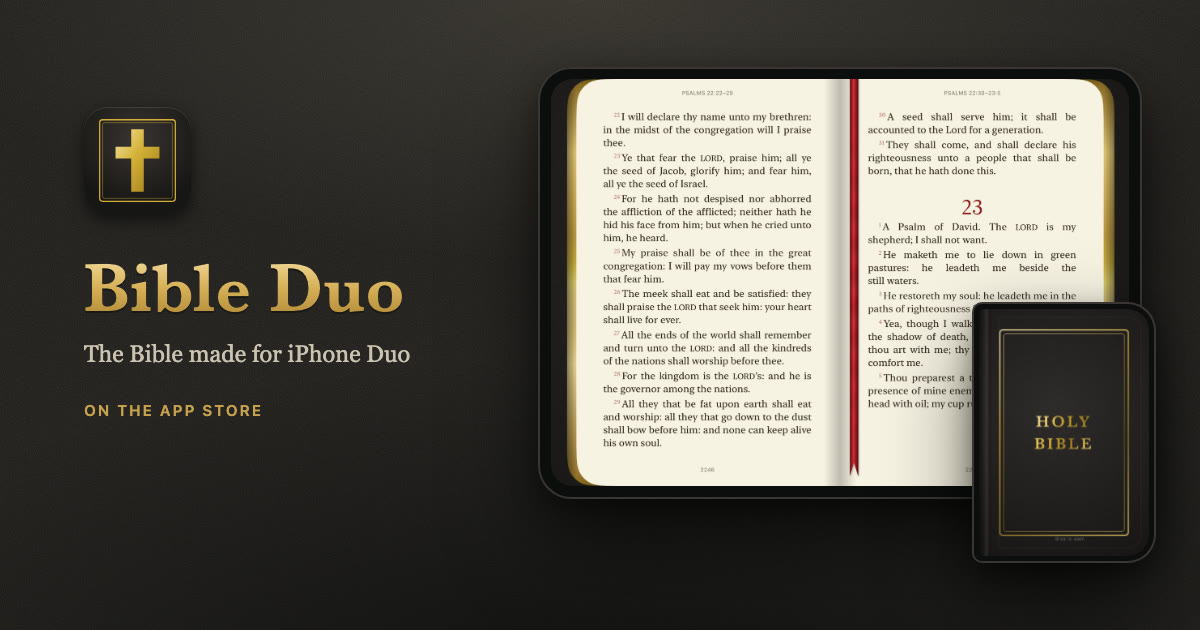
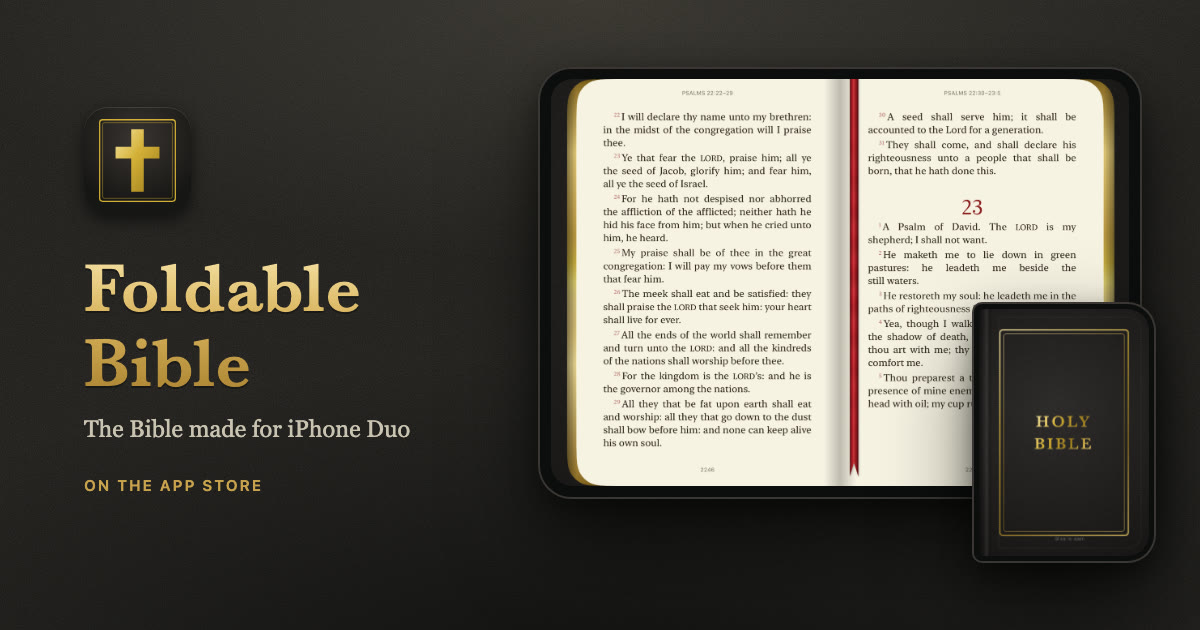
Rename to Foldable Bible / Bíblia Sagrada Fold / Santa Biblia Fold
App Review rejected the name Bible Duo under Guideline 5.2.5 (too close to
iPhone Duo). New store names in the titles, schema, support and privacy pages,
"the Duo" shorthand spelled out as iPhone Duo, and new link previews.

Changed region(s): [[0.0617, 0.4222, 0.3392, 0.6937], [0.0617, 0.754, 0.2158, 0.7841]]

diff --git a/es/index.html b/es/index.html
@@ -3,7 +3,7 @@
 <head>
 <meta charset="utf-8">
 <meta name="viewport" content="width=device-width, initial-scale=1">
-<title>Biblia Duo — la Santa Biblia como un libro, para iPhone Duo</title>
+<title>Santa Biblia Fold — la Santa Biblia como un libro, para iPhone Duo</title>
 <meta name="description" content="La Santa Biblia completa como un libro de verdad en el iPhone Duo: dos páginas, cantos dorados y hojas que pasas con el dedo. Reina-Valera 1909. Gratis, sin anuncios y sin internet.">
 <meta name="apple-itunes-app" content="app-id=6826902361">
 <link rel="canonical" href="https://oviniciusramosp.github.io/biblia-duo-site/es/">
@@ -12,7 +12,7 @@
 <link rel='alternate' hreflang='es' href='https://oviniciusramosp.github.io/biblia-duo-site/es/'>
 <link rel="alternate" hreflang="x-default" href="https://oviniciusramosp.github.io/biblia-duo-site/">
 <meta property="og:type" content="website">
-<meta property="og:title" content="Biblia Duo — la Santa Biblia como un libro, para iPhone Duo">
+<meta property="og:title" content="Santa Biblia Fold — la Santa Biblia como un libro, para iPhone Duo">
 <meta property="og:description" content="La Santa Biblia completa como un libro de verdad en el iPhone Duo: dos páginas, cantos dorados y hojas que pasas con el dedo. Reina-Valera 1909. Gratis, sin anuncios y sin internet.">
 <meta property="og:url" content="https://oviniciusramosp.github.io/biblia-duo-site/es/">
 <meta property="og:image" content="https://oviniciusramosp.github.io/biblia-duo-site/img/es/og.jpg">
@@ -20,14 +20,14 @@
 <meta name="twitter:card" content="summary_large_image">
 <link rel="icon" href="../img/cross.svg">
 <link rel="stylesheet" href="../style.css">
-<script type="application/ld+json">{"@context": "https://schema.org", "@type": "MobileApplication", "name": "Biblia Duo: Santa Escritura", "alternateName": "Biblia Duo", "description": "La Santa Biblia completa como un libro de verdad en el iPhone Duo: dos páginas, cantos dorados y hojas que pasas con el dedo. Reina-Valera 1909. Gratis, sin anuncios y sin internet.", "operatingSystem": "iOS 27.1", "applicationCategory": "ReferenceApplication", "inLanguage": ["en", "pt-BR", "es"], "url": "https://oviniciusramosp.github.io/biblia-duo-site/es/", "downloadUrl": "https://apps.apple.com/app/id6826902361", "image": "https://oviniciusramosp.github.io/biblia-duo-site/img/es/og.jpg", "screenshot": ["https://oviniciusramosp.github.io/biblia-duo-site/img/es/turn.webp", "https://oviniciusramosp.github.io/biblia-duo-site/img/es/highlights.webp", "https://oviniciusramosp.github.io/biblia-duo-site/img/es/books.webp", "https://oviniciusramosp.github.io/biblia-duo-site/img/es/cover.webp"], "offers": {"@type": "Offer", "price": "0", "priceCurrency": "USD"}, "author": {"@type": "Person", "name": "Vinicius Ramos"}}</script>
+<script type="application/ld+json">{"@context": "https://schema.org", "@type": "MobileApplication", "name": "Santa Biblia Fold", "alternateName": "Santa Biblia Fold", "description": "La Santa Biblia completa como un libro de verdad en el iPhone Duo: dos páginas, cantos dorados y hojas que pasas con el dedo. Reina-Valera 1909. Gratis, sin anuncios y sin internet.", "operatingSystem": "iOS 27.1", "applicationCategory": "ReferenceApplication", "inLanguage": ["en", "pt-BR", "es"], "url": "https://oviniciusramosp.github.io/biblia-duo-site/es/", "downloadUrl": "https://apps.apple.com/app/id6826902361", "image": "https://oviniciusramosp.github.io/biblia-duo-site/img/es/og.jpg", "screenshot": ["https://oviniciusramosp.github.io/biblia-duo-site/img/es/turn.webp", "https://oviniciusramosp.github.io/biblia-duo-site/img/es/highlights.webp", "https://oviniciusramosp.github.io/biblia-duo-site/img/es/books.webp", "https://oviniciusramosp.github.io/biblia-duo-site/img/es/cover.webp"], "offers": {"@type": "Offer", "price": "0", "priceCurrency": "USD"}, "author": {"@type": "Person", "name": "Vinicius Ramos"}}</script>
 </head>
 <body class="landing">
 <div class="wrap">
 <nav class="langs" aria-label="Idioma / Language / Idioma"><a href='../pt/' hreflang='pt'>Português</a><a href='.././' hreflang='en'>English</a><a href='../es/' hreflang='es' aria-current='page'>Español</a></nav>
 <header class="hero">
 <div class="app-icon"><img src="../img/frame.svg" alt=""><img src="../img/cross.svg" alt=""></div>
-<h1>Biblia Duo</h1>
+<h1>Santa Biblia Fold</h1>
 <p class="tagline">La Biblia como un libro de verdad, hecha para el iPhone Duo.</p>
 <a class='badge' href='https://apps.apple.com/app/id6826902361'><img src='https://toolbox.marketingtools.apple.com/api/v2/badges/download-on-the-app-store/black/es-mx' alt='Descargar en la App Store' width='200' height='67'></a>
 <p class="facts">Gratis · Sin anuncios · Funciona sin internet</p>
@@ -35,13 +35,13 @@
 </div>
 <img class="book" src="../img/es/book.webp" alt="La Biblia abierta en los Salmos, con cantos dorados y una cinta roja" width="1920" height="824">
 <main class="wrap">
-<section class='feature portrait'><div><h2>Cerrado, la cubierta. Abierto, el libro.</h2><p>Con el iPhone Duo cerrado, la pantalla exterior muestra la cubierta de piel de tu Biblia. Deslízala para abrirla y lee una página a la vez. Abre el Duo y la Biblia aparece abierta en dos páginas, como la que tienes junto a la cama.</p></div><figure><img src='../img/es/cover.webp' alt='La cubierta de piel de la Biblia en la pantalla exterior del iPhone Duo' width='700' height='1018' loading='lazy'></figure></section>
+<section class='feature portrait'><div><h2>Cerrado, la cubierta. Abierto, el libro.</h2><p>Con el iPhone Duo cerrado, la pantalla exterior muestra la cubierta de piel de tu Biblia. Deslízala para abrirla y lee una página a la vez. Abre el iPhone Duo y la Biblia aparece abierta en dos páginas, como la que tienes junto a la cama.</p></div><figure><img src='../img/es/cover.webp' alt='La cubierta de piel de la Biblia en la pantalla exterior del iPhone Duo' width='700' height='1018' loading='lazy'></figure></section>
 <section class='feature flip'><div><h2>Pasa la página con el dedo</h2><p>Las hojas se curvan bajo tu dedo, con la luz y la sombra del papel. Los cantos dorados muestran cuánto has leído, y una cinta de tela guarda tu lugar.</p></div><figure><img src='../img/es/turn.webp' alt='Una página curvándose al pasar, en la pantalla interior del iPhone Duo' width='1400' height='984' loading='lazy'></figure></section>
 <section class='feature'><div><h2>Resalta lo que te habla</h2><p>Toca y mantén una palabra para resaltar el versículo en uno de cuatro colores. Cada resaltado se convierte en una cita para releer y compartir.</p></div><figure><img src='../img/es/highlights.webp' alt='Juan 3:16 resaltado en amarillo en una página abierta' width='1400' height='984' loading='lazy'></figure></section>
 <section class='feature flip'><div><h2>Encuentra cualquier versículo</h2><p>Los 66 libros y todos los capítulos, con búsqueda. Escribe Juan 3:16 y ve directo al texto.</p></div><figure><img src='../img/es/books.webp' alt='La lista de libros buscando Juan 3:16' width='1400' height='984' loading='lazy'></figure></section>
 <section class="cards"><div><h3>A tu manera</h3><p>Cuatro estilos de cubierta, seis colores de piel, seis iconos, tema claro y oscuro y el tamaño de letra que mejor le quede a tus ojos.</p></div><div><h3>Sin internet y sin anuncios</h3><p>Funciona en el avión, en la iglesia y donde no hay señal. Sin anuncios ni distracciones.</p></div><div><h3>Tu lectura es solo tuya</h3><p>Sin cuenta y sin recopilar datos. Tus resaltados se quedan en tu iPhone.</p></div></section>
 <section class="translations"><h2>Tres traducciones completas</h2><ul><li>Español: Reina-Valera 1909</li><li>English: King James Version (KJV)</li><li>Português: Bíblia Livre, basada en la traducción Almeida</li></ul><p>Antiguo y Nuevo Testamento, los 66 libros. El idioma se cambia en Ajustes.</p></section>
-<section class="cta"><h2>Descarga Biblia Duo</h2><p>Gratis en la App Store. Hecha solo para el iPhone Duo, con iOS 27.1 o posterior.</p><a class='badge' href='https://apps.apple.com/app/id6826902361'><img src='https://toolbox.marketingtools.apple.com/api/v2/badges/download-on-the-app-store/black/es-mx' alt='Descargar en la App Store' width='200' height='67'></a></section>
+<section class="cta"><h2>Descarga Santa Biblia Fold</h2><p>Gratis en la App Store. Hecha solo para el iPhone Duo, con iOS 27.1 o posterior.</p><a class='badge' href='https://apps.apple.com/app/id6826902361'><img src='https://toolbox.marketingtools.apple.com/api/v2/badges/download-on-the-app-store/black/es-mx' alt='Descargar en la App Store' width='200' height='67'></a></section>
 </main>
 <footer class="wrap site">
 <p><a href="../support.html?lang=es">Soporte</a> · <a href="../privacy.html?lang=es">Política de privacidad</a> · <a href='../pt/' hreflang='pt'>Português</a> · <a href='.././' hreflang='en'>English</a> · <a href='../es/' hreflang='es'>Español</a></p>

diff --git a/pt/index.html b/pt/index.html
@@ -3,7 +3,7 @@
 <head>
 <meta charset="utf-8">
 <meta name="viewport" content="width=device-width, initial-scale=1">
-<title>Bíblia Duo — a Bíblia Sagrada como um livro, para iPhone Duo</title>
+<title>Bíblia Sagrada Fold — a Bíblia Sagrada como um livro, para iPhone Duo</title>
 <meta name="description" content="A Bíblia Sagrada completa como um livro de verdade no iPhone Duo: duas páginas, bordas douradas e folhas que viram com o dedo. Grátis, sem anúncios e sem internet.">
 <meta name="apple-itunes-app" content="app-id=6826902361">
 <link rel="canonical" href="https://oviniciusramosp.github.io/biblia-duo-site/pt/">
@@ -12,7 +12,7 @@
 <link rel='alternate' hreflang='es' href='https://oviniciusramosp.github.io/biblia-duo-site/es/'>
 <link rel="alternate" hreflang="x-default" href="https://oviniciusramosp.github.io/biblia-duo-site/">
 <meta property="og:type" content="website">
-<meta property="og:title" content="Bíblia Duo — a Bíblia Sagrada como um livro, para iPhone Duo">
+<meta property="og:title" content="Bíblia Sagrada Fold — a Bíblia Sagrada como um livro, para iPhone Duo">
 <meta property="og:description" content="A Bíblia Sagrada completa como um livro de verdade no iPhone Duo: duas páginas, bordas douradas e folhas que viram com o dedo. Grátis, sem anúncios e sem internet.">
 <meta property="og:url" content="https://oviniciusramosp.github.io/biblia-duo-site/pt/">
 <meta property="og:image" content="https://oviniciusramosp.github.io/biblia-duo-site/img/pt/og.jpg">
@@ -20,14 +20,14 @@
 <meta name="twitter:card" content="summary_large_image">
 <link rel="icon" href="../img/cross.svg">
 <link rel="stylesheet" href="../style.css">
-<script type="application/ld+json">{"@context": "https://schema.org", "@type": "MobileApplication", "name": "Bíblia Duo: Sagrada Escritura", "alternateName": "Bíblia Duo", "description": "A Bíblia Sagrada completa como um livro de verdade no iPhone Duo: duas páginas, bordas douradas e folhas que viram com o dedo. Grátis, sem anúncios e sem internet.", "operatingSystem": "iOS 27.1", "applicationCategory": "ReferenceApplication", "inLanguage": ["en", "pt-BR", "es"], "url": "https://oviniciusramosp.github.io/biblia-duo-site/pt/", "downloadUrl": "https://apps.apple.com/app/id6826902361", "image": "https://oviniciusramosp.github.io/biblia-duo-site/img/pt/og.jpg", "screenshot": ["https://oviniciusramosp.github.io/biblia-duo-site/img/pt/turn.webp", "https://oviniciusramosp.github.io/biblia-duo-site/img/pt/highlights.webp", "https://oviniciusramosp.github.io/biblia-duo-site/img/pt/books.webp", "https://oviniciusramosp.github.io/biblia-duo-site/img/pt/cover.webp"], "offers": {"@type": "Offer", "price": "0", "priceCurrency": "BRL"}, "author": {"@type": "Person", "name": "Vinicius Ramos"}}</script>
+<script type="application/ld+json">{"@context": "https://schema.org", "@type": "MobileApplication", "name": "Bíblia Sagrada Fold", "alternateName": "Bíblia Sagrada Fold", "description": "A Bíblia Sagrada completa como um livro de verdade no iPhone Duo: duas páginas, bordas douradas e folhas que viram com o dedo. Grátis, sem anúncios e sem internet.", "operatingSystem": "iOS 27.1", "applicationCategory": "ReferenceApplication", "inLanguage": ["en", "pt-BR", "es"], "url": "https://oviniciusramosp.github.io/biblia-duo-site/pt/", "downloadUrl": "https://apps.apple.com/app/id6826902361", "image": "https://oviniciusramosp.github.io/biblia-duo-site/img/pt/og.jpg", "screenshot": ["https://oviniciusramosp.github.io/biblia-duo-site/img/pt/turn.webp", "https://oviniciusramosp.github.io/biblia-duo-site/img/pt/highlights.webp", "https://oviniciusramosp.github.io/biblia-duo-site/img/pt/books.webp", "https://oviniciusramosp.github.io/biblia-duo-site/img/pt/cover.webp"], "offers": {"@type": "Offer", "price": "0", "priceCurrency": "BRL"}, "author": {"@type": "Person", "name": "Vinicius Ramos"}}</script>
 </head>
 <body class="landing">
 <div class="wrap">
 <nav class="langs" aria-label="Idioma / Language / Idioma"><a href='../pt/' hreflang='pt' aria-current='page'>Português</a><a href='.././' hreflang='en'>English</a><a href='../es/' hreflang='es'>Español</a></nav>
 <header class="hero">
 <div class="app-icon"><img src="../img/frame.svg" alt=""><img src="../img/cross.svg" alt=""></div>
-<h1>Bíblia Duo</h1>
+<h1>Bíblia Sagrada Fold</h1>
 <p class="tagline">A Bíblia como um livro de verdade, feita para o iPhone Duo.</p>
 <a class='badge' href='https://apps.apple.com/app/id6826902361'><img src='https://toolbox.marketingtools.apple.com/api/v2/badges/download-on-the-app-store/black/pt-br' alt='Baixar na App Store' width='200' height='67'></a>
 <p class="facts">Grátis · Sem anúncios · Funciona sem internet</p>
@@ -35,13 +35,13 @@
 </div>
 <img class="book" src="../img/pt/book.webp" alt="A Bíblia aberta nos Salmos, com bordas douradas e fitinha vermelha" width="1920" height="824">
 <main class="wrap">
-<section class='feature portrait'><div><h2>Fechado, a capa. Aberto, o livro.</h2><p>Com o iPhone Duo fechado, a tela de fora mostra a capa de couro da sua Bíblia. Deslize para abrir e leia uma página de cada vez. Abra o Duo e a Bíblia aparece aberta em duas páginas, como aquela que fica na cabeceira.</p></div><figure><img src='../img/pt/cover.webp' alt='A capa de couro da Bíblia na tela externa do iPhone Duo' width='700' height='1018' loading='lazy'></figure></section>
+<section class='feature portrait'><div><h2>Fechado, a capa. Aberto, o livro.</h2><p>Com o iPhone Duo fechado, a tela de fora mostra a capa de couro da sua Bíblia. Deslize para abrir e leia uma página de cada vez. Abra o iPhone Duo e a Bíblia aparece aberta em duas páginas, como aquela que fica na cabeceira.</p></div><figure><img src='../img/pt/cover.webp' alt='A capa de couro da Bíblia na tela externa do iPhone Duo' width='700' height='1018' loading='lazy'></figure></section>
 <section class='feature flip'><div><h2>Vire a página com o dedo</h2><p>As folhas se curvam sob o dedo, com a luz e a sombra do papel. As bordas douradas mostram quanto você já leu, e uma fitinha de tecido guarda a página onde parou.</p></div><figure><img src='../img/pt/turn.webp' alt='Uma página se curvando ao virar, na tela interna do iPhone Duo' width='1400' height='984' loading='lazy'></figure></section>
 <section class='feature'><div><h2>Destaque o que fala com você</h2><p>Toque e segure uma palavra para destacar o versículo em uma de quatro cores. Cada destaque vira uma citação para reler e compartilhar.</p></div><figure><img src='../img/pt/highlights.webp' alt='João 3:16 destacado em amarelo numa página aberta' width='1400' height='984' loading='lazy'></figure></section>
 <section class='feature flip'><div><h2>Ache qualquer versículo</h2><p>Os 66 livros e todos os capítulos, com busca. Digite João 3:16 e vá direto ao texto.</p></div><figure><img src='../img/pt/books.webp' alt='A lista de livros buscando João 3:16' width='1400' height='984' loading='lazy'></figure></section>
 <section class="cards"><div><h3>Do seu jeito</h3><p>Quatro estilos de capa, seis cores de couro, seis ícones, tema claro e escuro e o tamanho de letra melhor para os seus olhos.</p></div><div><h3>Sem internet e sem anúncios</h3><p>Funciona no avião, na igreja e onde não há sinal. Sem anúncios e sem distrações.</p></div><div><h3>Sua leitura é só sua</h3><p>Não pedimos conta e não coletamos dados. Seus destaques ficam no seu iPhone.</p></div></section>
 <section class="translations"><h2>Três traduções completas</h2><ul><li>Português: Bíblia Livre, tradução baseada na Almeida</li><li>English: King James Version (KJV)</li><li>Español: Reina-Valera 1909</li></ul><p>Antigo e Novo Testamento, os 66 livros. O idioma muda nos Ajustes.</p></section>
-<section class="cta"><h2>Baixe a Bíblia Duo</h2><p>Grátis na App Store. Feita só para o iPhone Duo, com iOS 27.1 ou posterior.</p><a class='badge' href='https://apps.apple.com/app/id6826902361'><img src='https://toolbox.marketingtools.apple.com/api/v2/badges/download-on-the-app-store/black/pt-br' alt='Baixar na App Store' width='200' height='67'></a></section>
+<section class="cta"><h2>Baixe a Bíblia Sagrada Fold</h2><p>Grátis na App Store. Feita só para o iPhone Duo, com iOS 27.1 ou posterior.</p><a class='badge' href='https://apps.apple.com/app/id6826902361'><img src='https://toolbox.marketingtools.apple.com/api/v2/badges/download-on-the-app-store/black/pt-br' alt='Baixar na App Store' width='200' height='67'></a></section>
 </main>
 <footer class="wrap site">
 <p><a href="../support.html?lang=pt">Suporte</a> · <a href="../privacy.html?lang=pt">Política de privacidade</a> · <a href='../pt/' hreflang='pt'>Português</a> · <a href='.././' hreflang='en'>English</a> · <a href='../es/' hreflang='es'>Español</a></p>

diff --git a/index.html b/index.html
@@ -3,7 +3,7 @@
 <head>
 <meta charset="utf-8">
 <meta name="viewport" content="width=device-width, initial-scale=1">
-<title>Bible Duo — the Holy Bible as a real book, for iPhone Duo</title>
+<title>Foldable Bible — the Holy Bible as a real book, for iPhone Duo</title>
 <meta name="description" content="The complete Holy Bible as a real book on iPhone Duo: two pages, gilded edges and pages you turn by hand. King James Version. Free, no ads, works offline.">
 <meta name="apple-itunes-app" content="app-id=6826902361">
 <link rel="canonical" href="https://oviniciusramosp.github.io/biblia-duo-site/">
@@ -12,7 +12,7 @@
 <link rel='alternate' hreflang='es' href='https://oviniciusramosp.github.io/biblia-duo-site/es/'>
 <link rel="alternate" hreflang="x-default" href="https://oviniciusramosp.github.io/biblia-duo-site/">
 <meta property="og:type" content="website">
-<meta property="og:title" content="Bible Duo — the Holy Bible as a real book, for iPhone Duo">
+<meta property="og:title" content="Foldable Bible — the Holy Bible as a real book, for iPhone Duo">
 <meta property="og:description" content="The complete Holy Bible as a real book on iPhone Duo: two pages, gilded edges and pages you turn by hand. King James Version. Free, no ads, works offline.">
 <meta property="og:url" content="https://oviniciusramosp.github.io/biblia-duo-site/">
 <meta property="og:image" content="https://oviniciusramosp.github.io/biblia-duo-site/img/en/og.jpg">
@@ -20,14 +20,14 @@
 <meta name="twitter:card" content="summary_large_image">
 <link rel="icon" href="img/cross.svg">
 <link rel="stylesheet" href="style.css">
-<script type="application/ld+json">{"@context": "https://schema.org", "@type": "MobileApplication", "name": "Bible Duo: Holy Scripture", "alternateName": "Bible Duo", "description": "The complete Holy Bible as a real book on iPhone Duo: two pages, gilded edges and pages you turn by hand. King James Version. Free, no ads, works offline.", "operatingSystem": "iOS 27.1", "applicationCategory": "ReferenceApplication", "inLanguage": ["en", "pt-BR", "es"], "url": "https://oviniciusramosp.github.io/biblia-duo-site/", "downloadUrl": "https://apps.apple.com/app/id6826902361", "image": "https://oviniciusramosp.github.io/biblia-duo-site/img/en/og.jpg", "screenshot": ["https://oviniciusramosp.github.io/biblia-duo-site/img/en/turn.webp", "https://oviniciusramosp.github.io/biblia-duo-site/img/en/highlights.webp", "https://oviniciusramosp.github.io/biblia-duo-site/img/en/books.webp", "https://oviniciusramosp.github.io/biblia-duo-site/img/en/cover.webp"], "offers": {"@type": "Offer", "price": "0", "priceCurrency": "USD"}, "author": {"@type": "Person", "name": "Vinicius Ramos"}}</script>
+<script type="application/ld+json">{"@context": "https://schema.org", "@type": "MobileApplication", "name": "Foldable Bible: Holy Scripture", "alternateName": "Foldable Bible", "description": "The complete Holy Bible as a real book on iPhone Duo: two pages, gilded edges and pages you turn by hand. King James Version. Free, no ads, works offline.", "operatingSystem": "iOS 27.1", "applicationCategory": "ReferenceApplication", "inLanguage": ["en", "pt-BR", "es"], "url": "https://oviniciusramosp.github.io/biblia-duo-site/", "downloadUrl": "https://apps.apple.com/app/id6826902361", "image": "https://oviniciusramosp.github.io/biblia-duo-site/img/en/og.jpg", "screenshot": ["https://oviniciusramosp.github.io/biblia-duo-site/img/en/turn.webp", "https://oviniciusramosp.github.io/biblia-duo-site/img/en/highlights.webp", "https://oviniciusramosp.github.io/biblia-duo-site/img/en/books.webp", "https://oviniciusramosp.github.io/biblia-duo-site/img/en/cover.webp"], "offers": {"@type": "Offer", "price": "0", "priceCurrency": "USD"}, "author": {"@type": "Person", "name": "Vinicius Ramos"}}</script>
 </head>
 <body class="landing">
 <div class="wrap">
 <nav class="langs" aria-label="Idioma / Language / Idioma"><a href='pt/' hreflang='pt'>Português</a><a href='./' hreflang='en' aria-current='page'>English</a><a href='es/' hreflang='es'>Español</a></nav>
 <header class="hero">
 <div class="app-icon"><img src="img/frame.svg" alt=""><img src="img/cross.svg" alt=""></div>
-<h1>Bible Duo</h1>
+<h1>Foldable Bible</h1>
 <p class="tagline">The Bible like a real book, made for iPhone Duo.</p>
 <a class='badge' href='https://apps.apple.com/app/id6826902361'><img src='https://toolbox.marketingtools.apple.com/api/v2/badges/download-on-the-app-store/black/en-us' alt='Download on the App Store' width='200' height='67'></a>
 <p class="facts">Free · No ads · Works offline</p>
@@ -35,13 +35,13 @@
 </div>
 <img class="book" src="img/en/book.webp" alt="The Bible open to Psalm 23, with gilded edges and a red ribbon" width="1920" height="824">
 <main class="wrap">
-<section class='feature portrait'><div><h2>Closed, the cover. Open, the book.</h2><p>With iPhone Duo closed, the outer display shows your Bible&#x27;s leather cover. Swipe it open and read one page at a time. Unfold your Duo and the Bible lies open on two pages, like the one on your nightstand.</p></div><figure><img src='img/en/cover.webp' alt='The Bible&#x27;s leather cover on the iPhone Duo outer display' width='700' height='1018' loading='lazy'></figure></section>
+<section class='feature portrait'><div><h2>Closed, the cover. Open, the book.</h2><p>With iPhone Duo closed, the outer display shows your Bible&#x27;s leather cover. Swipe it open and read one page at a time. Unfold your iPhone Duo and the Bible lies open on two pages, like the one on your nightstand.</p></div><figure><img src='img/en/cover.webp' alt='The Bible&#x27;s leather cover on the iPhone Duo outer display' width='700' height='1018' loading='lazy'></figure></section>
 <section class='feature flip'><div><h2>Turn pages by hand</h2><p>Pages curl under your finger, with the light and shadow of paper. The gilded edges show how far you&#x27;ve read, and a cloth ribbon keeps your place.</p></div><figure><img src='img/en/turn.webp' alt='A page curling as it turns, on the iPhone Duo inner display' width='1400' height='984' loading='lazy'></figure></section>
 <section class='feature'><div><h2>Highlight what speaks to you</h2><p>Touch and hold a word to highlight the verse in one of four colors. Every highlight becomes a quote to revisit and share.</p></div><figure><img src='img/en/highlights.webp' alt='John 3:16 highlighted in yellow on an open page' width='1400' height='984' loading='lazy'></figure></section>
 <section class='feature flip'><div><h2>Find any verse</h2><p>All 66 books and every chapter, with search. Type John 3:16 and go straight to the text.</p></div><figure><img src='img/en/books.webp' alt='The books list searching for John 3:16' width='1400' height='984' loading='lazy'></figure></section>
 <section class="cards"><div><h3>Make it yours</h3><p>Four cover styles, six leather colors, six app icons, light and dark themes, and the text size that suits your eyes.</p></div><div><h3>No internet, no ads</h3><p>Works on a plane, at church, anywhere without signal. No ads, no distractions.</p></div><div><h3>Your reading stays yours</h3><p>No account and no data collected. Your highlights stay on your iPhone.</p></div></section>
 <section class="translations"><h2>Three complete translations</h2><ul><li>English: King James Version (KJV)</li><li>Português: Bíblia Livre, based on the Almeida translation</li><li>Español: Reina-Valera 1909</li></ul><p>Old and New Testament, all 66 books. Switch the language in Settings.</p></section>
-<section class="cta"><h2>Get Bible Duo</h2><p>Free on the App Store. Made only for iPhone Duo, with iOS 27.1 or later.</p><a class='badge' href='https://apps.apple.com/app/id6826902361'><img src='https://toolbox.marketingtools.apple.com/api/v2/badges/download-on-the-app-store/black/en-us' alt='Download on the App Store' width='200' height='67'></a></section>
+<section class="cta"><h2>Get Foldable Bible</h2><p>Free on the App Store. Made only for iPhone Duo, with iOS 27.1 or later.</p><a class='badge' href='https://apps.apple.com/app/id6826902361'><img src='https://toolbox.marketingtools.apple.com/api/v2/badges/download-on-the-app-store/black/en-us' alt='Download on the App Store' width='200' height='67'></a></section>
 </main>
 <footer class="wrap site">
 <p><a href="support.html?lang=en">Support</a> · <a href="privacy.html?lang=en">Privacy policy</a> · <a href='pt/' hreflang='pt'>Português</a> · <a href='./' hreflang='en'>English</a> · <a href='es/' hreflang='es'>Español</a></p>

diff --git a/privacy.html b/privacy.html
@@ -3,7 +3,7 @@
 <head>
 <meta charset="utf-8">
 <meta name="viewport" content="width=device-width, initial-scale=1">
-<title>Bíblia Duo — Privacidade</title>
+<title>Bíblia Sagrada Fold — Privacidade</title>
 <link rel="stylesheet" href="style.css">
 </head>
 <body>
@@ -16,8 +16,8 @@
 
   <article lang="pt-BR" data-lang="pt">
     <h1>Política de Privacidade</h1>
-    <p class="meta"><a href="pt/">Bíblia Duo</a> · em vigor desde 23 de outubro de 2026</p>
-    <p>A Bíblia Duo não coleta, não envia e não compartilha nenhum dado seu.</p>
+    <p class="meta"><a href="pt/">Bíblia Sagrada Fold</a> · em vigor desde 23 de outubro de 2026</p>
+    <p>A Bíblia Sagrada Fold não coleta, não envia e não compartilha nenhum dado seu.</p>
     <h2>O que fica no seu aparelho</h2>
     <p>A página marcada com a fitinha, os trechos que você destaca, as citações e as suas preferências (capa, tema, idioma e tamanho da letra) são guardados apenas no seu iPhone, dentro do próprio app. Eles entram no backup do iPhone como qualquer outro dado de app e são apagados quando você apaga o app.</p>
     <h2>O que não fazemos</h2>
@@ -36,8 +36,8 @@
 
   <article lang="en-US" data-lang="en">
     <h1>Privacy Policy</h1>
-    <p class="meta"><a href="./">Bible Duo</a> · effective October 23, 2026</p>
-    <p>Bible Duo does not collect, send or share any of your data.</p>
+    <p class="meta"><a href="./">Foldable Bible</a> · effective October 23, 2026</p>
+    <p>Foldable Bible does not collect, send or share any of your data.</p>
     <h2>What stays on your device</h2>
     <p>Your ribbon bookmark, highlighted passages, quotes and preferences (cover, theme, language and text size) are stored only on your iPhone, inside the app. They are included in your iPhone backup like any other app data and are deleted when you delete the app.</p>
     <h2>What we don't do</h2>
@@ -56,8 +56,8 @@
 
   <article lang="es-MX" data-lang="es">
     <h1>Política de Privacidad</h1>
-    <p class="meta"><a href="es/">Biblia Duo</a> · vigente desde el 23 de octubre de 2026</p>
-    <p>Biblia Duo no recopila, no envía y no comparte ningún dato tuyo.</p>
+    <p class="meta"><a href="es/">Santa Biblia Fold</a> · vigente desde el 23 de octubre de 2026</p>
+    <p>Santa Biblia Fold no recopila, no envía y no comparte ningún dato tuyo.</p>
     <h2>Lo que se queda en tu dispositivo</h2>
     <p>La página marcada con la cinta, los pasajes resaltados, las citas y tus preferencias (cubierta, tema, idioma y tamaño de letra) se guardan solo en tu iPhone, dentro de la app. Se incluyen en el respaldo del iPhone como cualquier otro dato de app y se borran cuando eliminas la app.</p>
     <h2>Lo que no hacemos</h2>

diff --git a/support.html b/support.html
@@ -3,7 +3,7 @@
 <head>
 <meta charset="utf-8">
 <meta name="viewport" content="width=device-width, initial-scale=1">
-<title>Bíblia Duo — Suporte</title>
+<title>Bíblia Sagrada Fold — Suporte</title>
 <link rel="stylesheet" href="style.css">
 </head>
 <body>
@@ -16,10 +16,10 @@
 
   <article lang="pt-BR" data-lang="pt">
     <h1>Suporte</h1>
-    <p class="meta"><a href="pt/">Bíblia Duo</a> para iPhone Duo</p>
+    <p class="meta"><a href="pt/">Bíblia Sagrada Fold</a> para iPhone Duo</p>
     <h2>Perguntas frequentes</h2>
     <h3>Como abro a Bíblia?</h3>
-    <p>Com o Duo fechado, deslize a capa da direita para a esquerda. Ou abra o Duo: a Bíblia aparece aberta em duas páginas.</p>
+    <p>Com o iPhone Duo fechado, deslize a capa da direita para a esquerda. Ou abra o iPhone Duo: a Bíblia aparece aberta em duas páginas.</p>
     <h3>Como viro as páginas?</h3>
     <p>Arraste a página com o dedo, como num livro. Solte depois da lombada para virar, ou antes dela para desistir.</p>
     <h3>Como marco uma página?</h3>
@@ -39,10 +39,10 @@
 
   <article lang="en-US" data-lang="en">
     <h1>Support</h1>
-    <p class="meta"><a href="./">Bible Duo</a> for iPhone Duo</p>
+    <p class="meta"><a href="./">Foldable Bible</a> for iPhone Duo</p>
     <h2>Frequently asked questions</h2>
     <h3>How do I open the Bible?</h3>
-    <p>With Duo closed, swipe the cover from right to left. Or open your Duo: the Bible appears open to a two-page spread.</p>
+    <p>With iPhone Duo closed, swipe the cover from right to left. Or open your iPhone Duo: the Bible appears open to a two-page spread.</p>
     <h3>How do I turn pages?</h3>
     <p>Drag the page with your finger, like a book. Let go past the spine to turn it, or before it to change your mind.</p>
     <h3>How do I mark a page?</h3>
@@ -62,10 +62,10 @@
 
   <article lang="es-MX" data-lang="es">
     <h1>Soporte</h1>
-    <p class="meta"><a href="es/">Biblia Duo</a> para iPhone Duo</p>
+    <p class="meta"><a href="es/">Santa Biblia Fold</a> para iPhone Duo</p>
     <h2>Preguntas frecuentes</h2>
     <h3>¿Cómo abro la Biblia?</h3>
-    <p>Con el Duo cerrado, desliza la cubierta de derecha a izquierda. O abre tu Duo: la Biblia aparece abierta en dos páginas.</p>
+    <p>Con el iPhone Duo cerrado, desliza la cubierta de derecha a izquierda. O abre tu iPhone Duo: la Biblia aparece abierta en dos páginas.</p>
     <h3>¿Cómo paso las páginas?</h3>
     <p>Arrastra la página con el dedo, como en un libro. Suéltala después del lomo para pasarla, o antes para arrepentirte.</p>
     <h3>¿Cómo marco una página?</h3>

diff --git a/build.py b/build.py
@@ -14,8 +14,8 @@ HERE = os.path.dirname(os.path.abspath(__file__))
 # path: where the page lives; badge: Apple's badge locale; lang: the images and the support/privacy ?lang=
 PAGES = {
     "en": dict(path="", html_lang="en", og_locale="en_US", badge="en-us", currency="USD",
-               name="Bible Duo: Holy Scripture", short="Bible Duo",
-               title="Bible Duo — the Holy Bible as a real book, for iPhone Duo",
+               name="Foldable Bible: Holy Scripture", short="Foldable Bible",
+               title="Foldable Bible — the Holy Bible as a real book, for iPhone Duo",
                description="The complete Holy Bible as a real book on iPhone Duo: two pages, gilded edges and pages you turn "
                            "by hand. King James Version. Free, no ads, works offline.",
                tagline="The Bible like a real book, made for iPhone Duo.",
@@ -25,7 +25,7 @@ PAGES = {
                sections=[
                    ("Closed, the cover. Open, the book.",
                     "With iPhone Duo closed, the outer display shows your Bible's leather cover. Swipe it open and read one "
-                    "page at a time. Unfold your Duo and the Bible lies open on two pages, like the one on your nightstand.",
+                    "page at a time. Unfold your iPhone Duo and the Bible lies open on two pages, like the one on your nightstand.",
                     "cover", "The Bible's leather cover on the iPhone Duo outer display"),
                    ("Turn pages by hand",
                     "Pages curl under your finger, with the light and shadow of paper. The gilded edges show how far you've "
@@ -50,14 +50,14 @@ PAGES = {
                translations=["English: King James Version (KJV)", "Português: Bíblia Livre, based on the Almeida translation",
                              "Español: Reina-Valera 1909"],
                translations_note="Old and New Testament, all 66 books. Switch the language in Settings.",
-               cta_title="Get Bible Duo",
+               cta_title="Get Foldable Bible",
                cta="Free on the App Store. Made only for iPhone Duo, with iOS 27.1 or later.",
                credits="Bible texts: King James Version and Reina-Valera 1909 (public domain); Bíblia Livre © 2018 Diego "
                        "Santos, Mario Sérgio and Marco Teles (CC BY 4.0). Texts via eBible.org.",
                legal="Apple, the Apple logo and iPhone are trademarks of Apple Inc. App Store is a service mark of Apple Inc."),
     "pt": dict(path="pt/", html_lang="pt-BR", og_locale="pt_BR", badge="pt-br", currency="BRL",
-               name="Bíblia Duo: Sagrada Escritura", short="Bíblia Duo",
-               title="Bíblia Duo — a Bíblia Sagrada como um livro, para iPhone Duo",
+               name="Bíblia Sagrada Fold", short="Bíblia Sagrada Fold",
+               title="Bíblia Sagrada Fold — a Bíblia Sagrada como um livro, para iPhone Duo",
                description="A Bíblia Sagrada completa como um livro de verdade no iPhone Duo: duas páginas, bordas douradas e "
                            "folhas que viram com o dedo. Grátis, sem anúncios e sem internet.",
                tagline="A Bíblia como um livro de verdade, feita para o iPhone Duo.",
@@ -67,7 +67,7 @@ PAGES = {
                sections=[
                    ("Fechado, a capa. Aberto, o livro.",
                     "Com o iPhone Duo fechado, a tela de fora mostra a capa de couro da sua Bíblia. Deslize para abrir e leia "
-                    "uma página de cada vez. Abra o Duo e a Bíblia aparece aberta em duas páginas, como aquela que fica na "
+                    "uma página de cada vez. Abra o iPhone Duo e a Bíblia aparece aberta em duas páginas, como aquela que fica na "
                     "cabeceira.",
                     "cover", "A capa de couro da Bíblia na tela externa do iPhone Duo"),
                    ("Vire a página com o dedo",
@@ -94,15 +94,15 @@ PAGES = {
                translations=["Português: Bíblia Livre, tradução baseada na Almeida", "English: King James Version (KJV)",
                              "Español: Reina-Valera 1909"],
                translations_note="Antigo e Novo Testamento, os 66 livros. O idioma muda nos Ajustes.",
-               cta_title="Baixe a Bíblia Duo",
+               cta_title="Baixe a Bíblia Sagrada Fold",
                cta="Grátis na App Store. Feita só para o iPhone Duo, com iOS 27.1 ou posterior.",
                credits="Textos bíblicos: Bíblia Livre © 2018 Diego Santos, Mario Sérgio e Marco Teles (CC BY 4.0); King James "
                        "Version e Reina-Valera 1909 (domínio público). Textos via eBible.org.",
                legal="Apple, o logotipo da Apple e iPhone são marcas comerciais da Apple Inc. App Store é uma marca de "
                      "serviço da Apple Inc."),
     "es": dict(path="es/", html_lang="es", og_locale="es_MX", badge="es-mx", currency="USD",
-               name="Biblia Duo: Santa Escritura", short="Biblia Duo",
-               title="Biblia Duo — la Santa Biblia como un libro, para iPhone Duo",
+               name="Santa Biblia Fold", short="Santa Biblia Fold",
+               title="Santa Biblia Fold — la Santa Biblia como un libro, para iPhone Duo",
                description="La Santa Biblia completa como un libro de verdad en el iPhone Duo: dos páginas, cantos dorados y "
                            "hojas que pasas con el dedo. Reina-Valera 1909. Gratis, sin anuncios y sin internet.",
                tagline="La Biblia como un libro de verdad, hecha para el iPhone Duo.",
@@ -112,7 +112,7 @@ PAGES = {
                sections=[
                    ("Cerrado, la cubierta. Abierto, el libro.",
                     "Con el iPhone Duo cerrado, la pantalla exterior muestra la cubierta de piel de tu Biblia. Deslízala para "
-                    "abrirla y lee una página a la vez. Abre el Duo y la Biblia aparece abierta en dos páginas, como la que "
+                    "abrirla y lee una página a la vez. Abre el iPhone Duo y la Biblia aparece abierta en dos páginas, como la que "
                     "tienes junto a la cama.",
                     "cover", "La cubierta de piel de la Biblia en la pantalla exterior del iPhone Duo"),
                    ("Pasa la página con el dedo",
@@ -139,7 +139,7 @@ PAGES = {
                translations=["Español: Reina-Valera 1909", "English: King James Version (KJV)",
                              "Português: Bíblia Livre, basada en la traducción Almeida"],
                translations_note="Antiguo y Nuevo Testamento, los 66 libros. El idioma se cambia en Ajustes.",
-               cta_title="Descarga Biblia Duo",
+               cta_title="Descarga Santa Biblia Fold",
                cta="Gratis en la App Store. Hecha solo para el iPhone Duo, con iOS 27.1 o posterior.",
                credits="Textos bíblicos: Reina-Valera 1909 y King James Version (dominio público); Bíblia Livre © 2018 Diego "
                        "Santos, Mario Sérgio y Marco Teles (CC BY 4.0). Textos vía eBible.org.",
